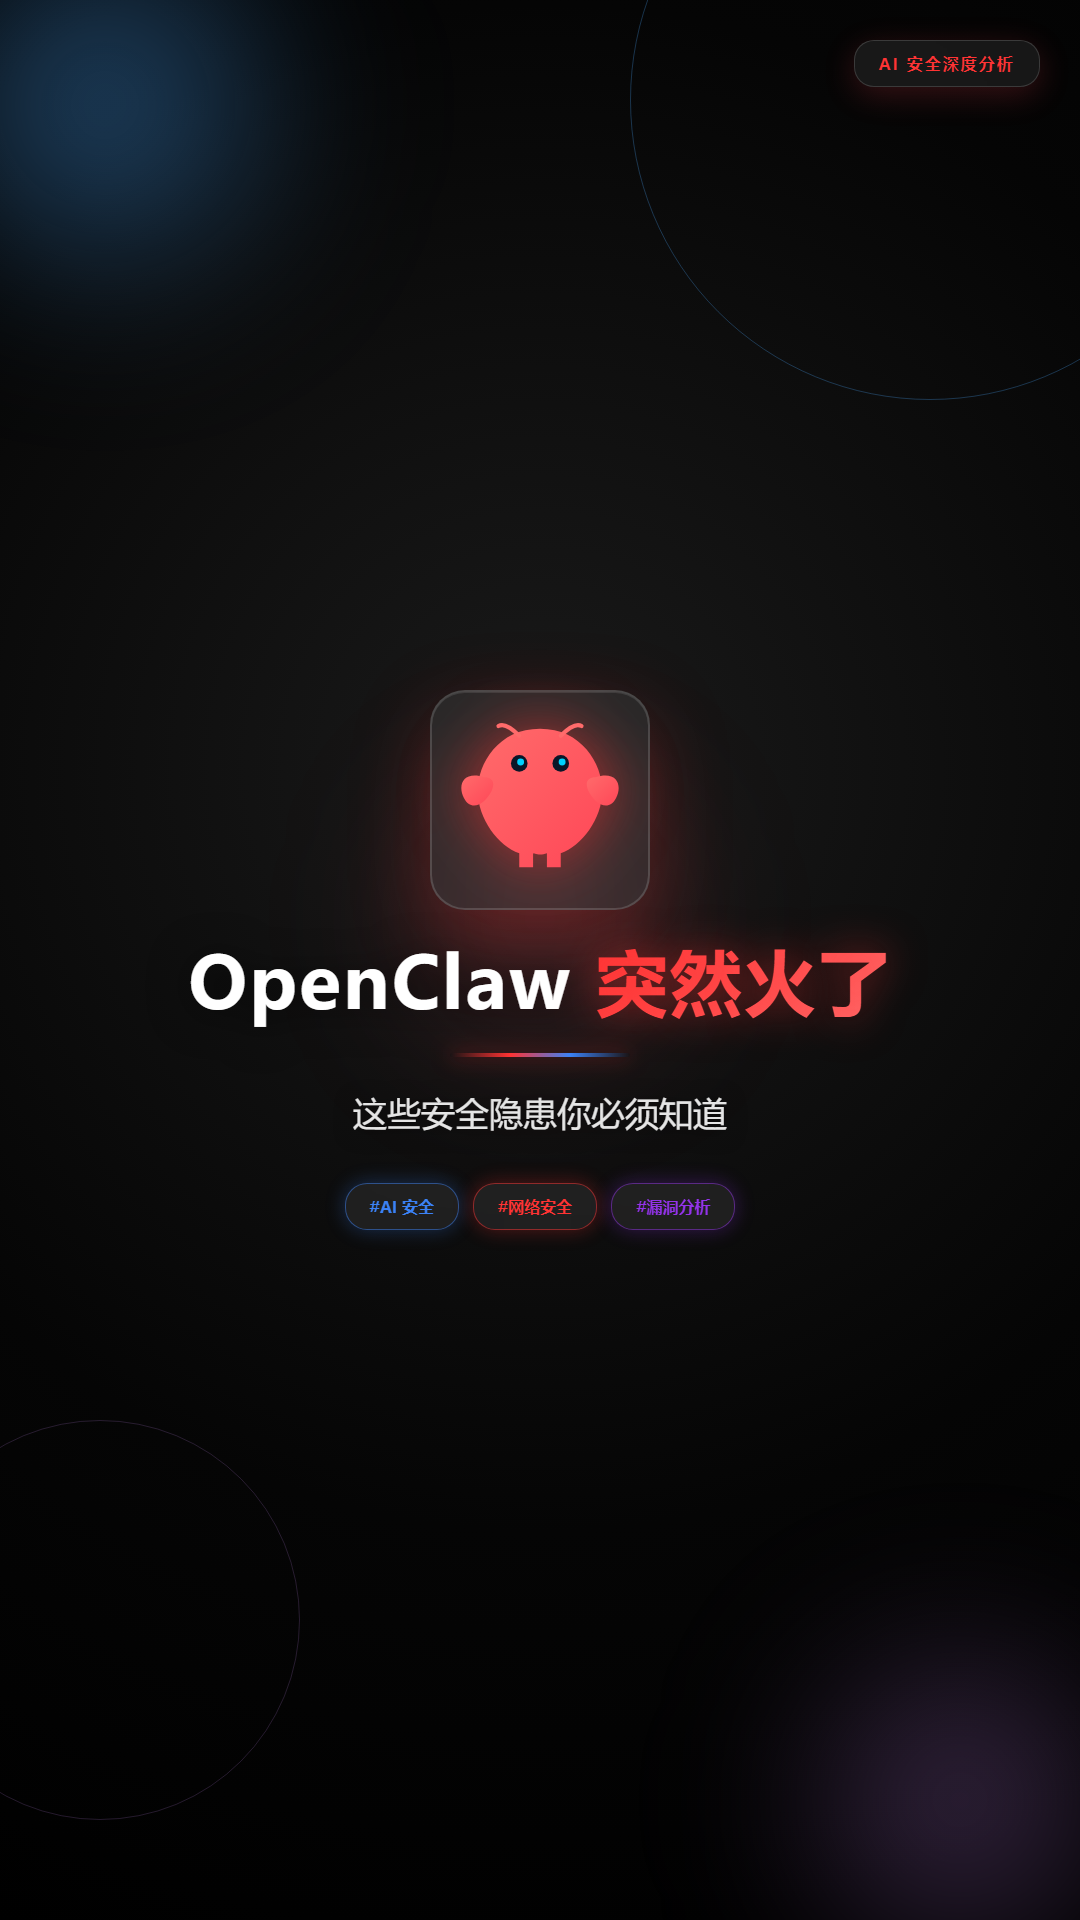
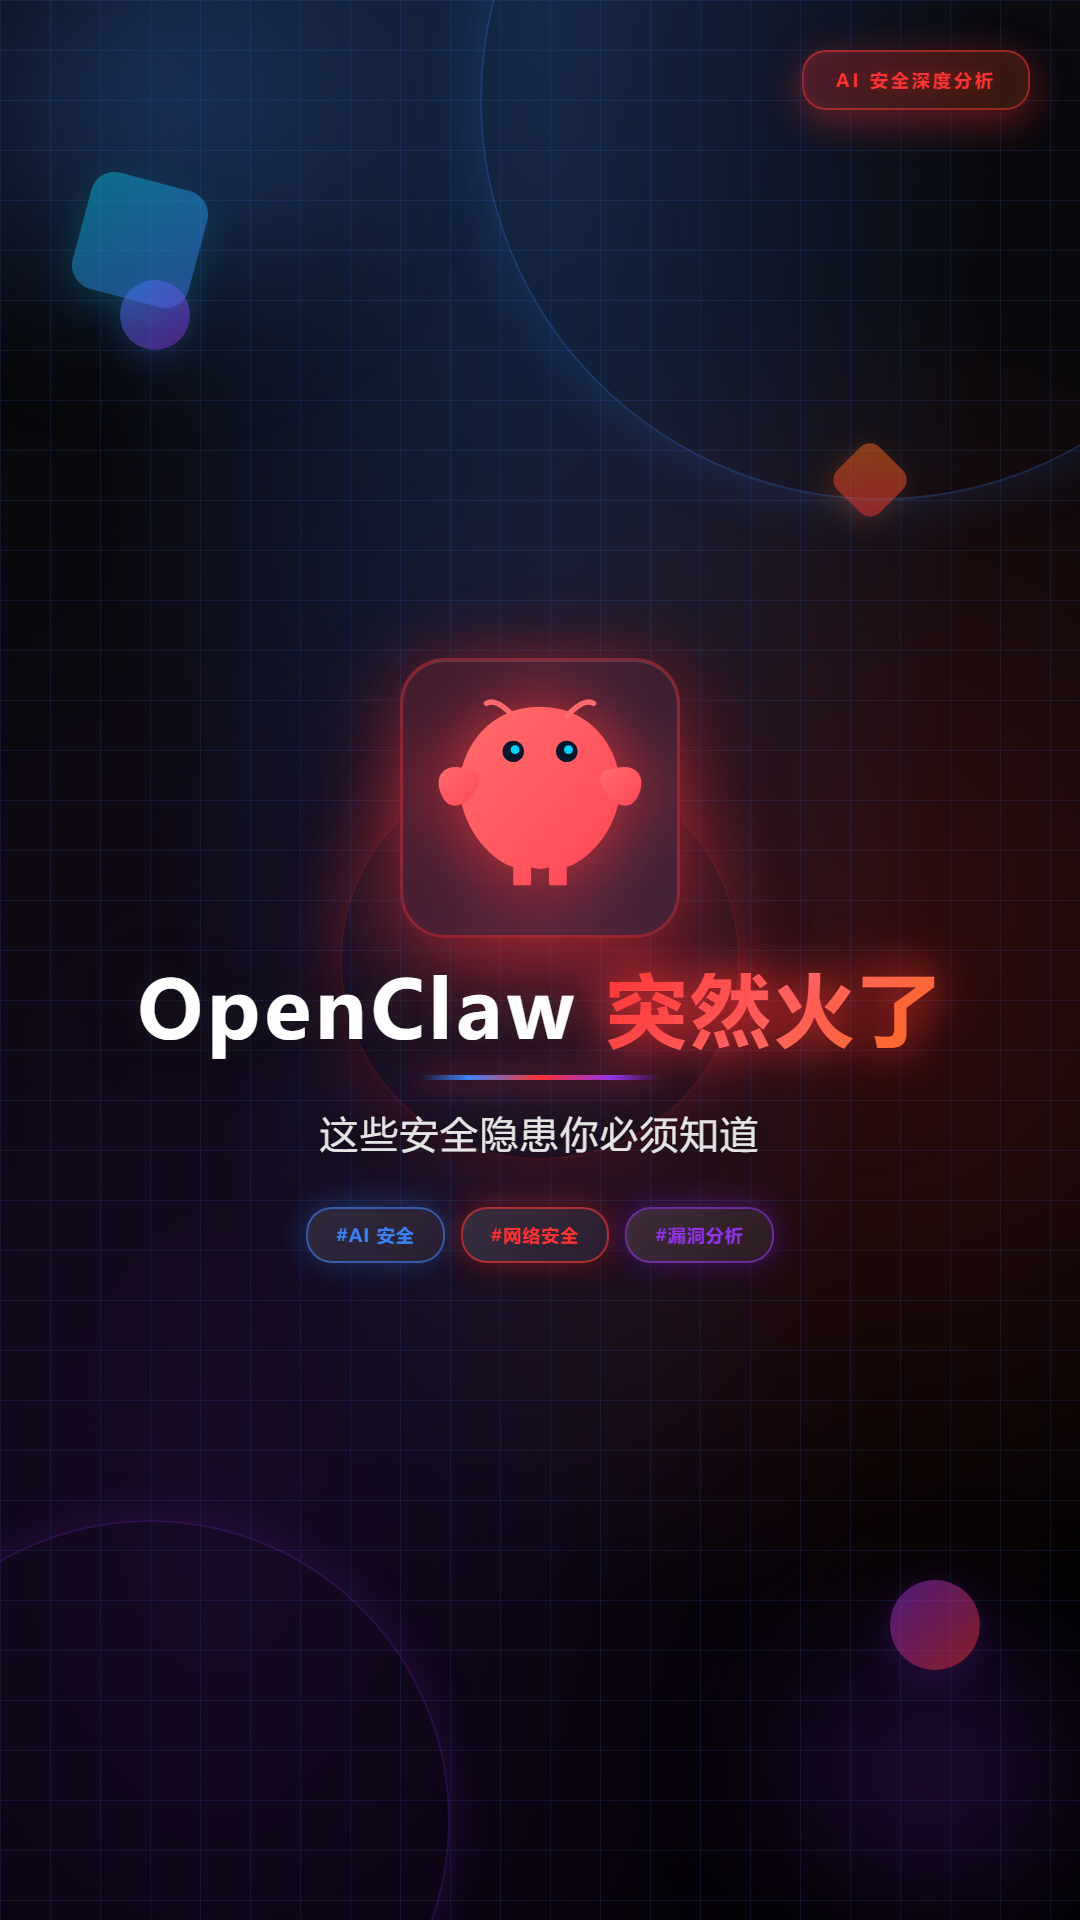
fix: 封面图优化 - 减少留白，增强背景视觉
- 增加多层渐变背景（蓝色/红色/紫色光晕）
- 添加网格背景纹理
- 增大装饰圆环和几何图形
- Logo 从 220px 增大到 280px
- 标题从 72px 增大到 80px
- 角标和标签更明显
- 整体视觉更饱满

diff --git a/generate_xhs_images.py b/generate_xhs_images.py
@@ -75,7 +75,7 @@ COLORS = {
 
 
 def generate_cover_html():
-    """封面图 HTML - 暗黑科技风格（视觉规划 v1.1 精修版）"""
+    """封面图 HTML - 饱满视觉风格（减少留白）"""
     return f"""
 <!DOCTYPE html>
 <html>
@@ -86,7 +86,11 @@ def generate_cover_html():
         body {{
             width: {IMAGE_CONFIG['width']}px;
             height: {IMAGE_CONFIG['height']}px;
-            background: radial-gradient(circle at 50% 40%, #1a1a1a 0%, {COLORS['bg']} 60%, #000000 100%);
+            background: 
+                radial-gradient(ellipse at 50% 0%, rgba(59, 130, 246, 0.25) 0%, transparent 60%),
+                radial-gradient(ellipse at 80% 50%, rgba(255, 51, 51, 0.18) 0%, transparent 50%),
+                radial-gradient(ellipse at 20% 80%, rgba(147, 51, 234, 0.15) 0%, transparent 55%),
+                linear-gradient(180deg, #0a0a0f 0%, #050505 50%, #000000 100%);
             font-family: 'Microsoft YaHei', 'PingFang SC', sans-serif;
             overflow: hidden;
             display: flex;
@@ -96,187 +100,246 @@ def generate_cover_html():
             padding: 0;
             position: relative;
         }}
-        /* 动态网格背景 */
+        /* 网格背景 - 更明显 */
         .grid-bg {{
             position: absolute;
             width: 100%;
             height: 100%;
             background-image:
-                linear-gradient(rgba(74, 168, 255, 0.15) 1px, transparent 1px),
-                linear-gradient(90deg, rgba(74, 168, 255, 0.15) 1px, transparent 1px);
-            background-size: 60px 60px;
+                linear-gradient(rgba(59, 130, 246, 0.12) 1px, transparent 1px),
+                linear-gradient(90deg, rgba(59, 130, 246, 0.12) 1px, transparent 1px);
+            background-size: 50px 50px;
             z-index: 0;
         }}
-        /* 装饰圆环 */
+        /* 装饰圆环 - 更大更明显 */
         .ring {{
             position: absolute;
             border-radius: 50%;
-            border: 1px solid rgba(74, 168, 255, 0.4);
+            border: 2px solid;
             z-index: 1;
         }}
-        .ring-1 {{ width: 600px; height: 600px; top: -200px; right: -150px; opacity: 0.7; }}
-        .ring-2 {{ width: 400px; height: 400px; bottom: 100px; left: -100px; opacity: 0.5; border-color: rgba(181, 126, 220, 0.4); }}
-        .ring-3 {{ width: 300px; height: 300px; top: 300px; right: 50px; opacity: 0.4; border-color: rgba(45, 232, 255, 0.4); }}
-        /* 渐变光斑 */
+        .ring-1 {{ 
+            width: 800px; height: 800px; 
+            top: -300px; right: -200px; 
+            border-color: rgba(59, 130, 246, 0.25);
+            box-shadow: 0 0 60px rgba(59, 130, 246, 0.2);
+        }}
+        .ring-2 {{ 
+            width: 600px; height: 600px; 
+            bottom: -200px; left: -150px; 
+            border-color: rgba(147, 51, 234, 0.2);
+            box-shadow: 0 0 50px rgba(147, 51, 234, 0.15);
+        }}
+        .ring-3 {{ 
+            width: 400px; height: 400px; 
+            top: 50%; left: 50%;
+            transform: translate(-50%, -50%);
+            border-color: rgba(255, 51, 51, 0.15);
+            box-shadow: 0 0 80px rgba(255, 51, 51, 0.2);
+        }}
+        /* 渐变光斑 - 更大更亮 */
         .glow {{
             position: absolute;
             border-radius: 50%;
-            filter: blur(80px);
+            filter: blur(60px);
             z-index: 0;
         }}
         .glow-1 {{
-            width: 450px; height: 450px;
-            top: -120px; left: -120px;
-            background: radial-gradient(circle, rgba(74, 168, 255, 0.5) 0%, transparent 70%);
+            width: 600px; height: 600px;
+            top: -200px; left: -150px;
+            background: radial-gradient(circle, rgba(59, 130, 246, 0.35) 0%, transparent 65%);
         }}
         .glow-2 {{
-            width: 400px; height: 400px;
-            bottom: -80px; right: -80px;
-            background: radial-gradient(circle, rgba(181, 126, 220, 0.4) 0%, transparent 70%);
+            width: 500px; height: 500px;
+            bottom: -100px; right: -100px;
+            background: radial-gradient(circle, rgba(147, 51, 234, 0.25) 0%, transparent 60%);
         }}
         .glow-3 {{
-            width: 300px; height: 300px;
-            top: 40%; left: 50%;
+            width: 450px; height: 450px;
+            top: 35%; left: 50%;
             transform: translateX(-50%);
-            background: radial-gradient(circle, rgba(255, 94, 110, 0.35) 0%, transparent 70%);
+            background: radial-gradient(circle, rgba(255, 51, 51, 0.28) 0%, transparent 60%);
         }}
-        /* 浮动几何图形 */
+        /* 浮动几何图形 - 更大更明显 */
         .geo {{
             position: absolute;
             z-index: 1;
-            opacity: 0.3;
+            opacity: 0.5;
         }}
         .geo-1 {{
-            width: 80px; height: 80px;
-            top: 150px; left: 60px;
+            width: 120px; height: 120px;
+            top: 180px; left: 80px;
             background: linear-gradient(135deg, {COLORS['accent_cyan']}, {COLORS['accent_blue']});
-            border-radius: 20px;
+            border-radius: 24px;
             transform: rotate(15deg);
+            box-shadow: 0 10px 40px rgba(6, 182, 212, 0.4);
         }}
         .geo-2 {{
-            width: 60px; height: 60px;
-            bottom: 200px; right: 80px;
+            width: 90px; height: 90px;
+            bottom: 250px; right: 100px;
             background: linear-gradient(135deg, {COLORS['accent_purple']}, {COLORS['accent_red']});
             border-radius: 50%;
+            box-shadow: 0 10px 40px rgba(147, 51, 234, 0.4);
         }}
         .geo-3 {{
-            width: 40px; height: 40px;
-            top: 400px; right: 150px;
+            width: 60px; height: 60px;
+            top: 450px; right: 180px;
             background: linear-gradient(135deg, {COLORS['accent_orange']}, {COLORS['accent_red']});
-            border-radius: 10px;
+            border-radius: 14px;
             transform: rotate(45deg);
+            box-shadow: 0 8px 30px rgba(249, 115, 22, 0.4);
         }}
-        /* 角标 - 玻璃态风格 */
+        .geo-4 {{
+            width: 70px; height: 70px;
+            top: 280px; left: 120px;
+            background: linear-gradient(135deg, {COLORS['accent_blue']}, {COLORS['accent_purple']});
+            border-radius: 50%;
+            box-shadow: 0 8px 30px rgba(59, 130, 246, 0.4);
+        }}
+        /* 角标 - 更大更明显 */
         .corner-badge {{
             position: absolute;
-            top: 40px;
-            right: 40px;
-            background: {COLORS['glass_bg']};
-            backdrop-filter: blur(10px);
-            border: 1px solid {COLORS['glass_border']};
+            top: 50px;
+            right: 50px;
+            background: linear-gradient(135deg, rgba(255, 51, 51, 0.25), rgba(249, 115, 22, 0.15));
+            backdrop-filter: blur(15px);
+            border: 2px solid rgba(255, 51, 51, 0.5);
             color: {COLORS['accent_red']};
-            padding: 12px 24px;
-            border-radius: 20px;
-            font-size: 16px;
-            font-weight: 600;
-            letter-spacing: 2px;
+            padding: 16px 32px;
+            border-radius: 24px;
+            font-size: 18px;
+            font-weight: 700;
+            letter-spacing: 3px;
             z-index: 10;
-            box-shadow: 0 8px 32px rgba(255, 71, 87, 0.2);
+            box-shadow: 
+                0 10px 40px rgba(255, 51, 51, 0.4),
+                inset 0 0 30px rgba(255, 51, 51, 0.1);
+            text-shadow: 0 0 20px rgba(255, 51, 51, 0.5);
         }}
-        /* Logo 容器 - 玻璃态 */
+        /* Logo 容器 - 更大更有视觉冲击力 */
         .logo-container {{
-            width: 220px;
-            height: 220px;
-            margin: 0 0 30px;
+            width: 280px;
+            height: 280px;
+            margin: 0 0 25px;
             display: flex;
             align-items: center;
             justify-content: center;
-            background: {COLORS['glass_bg']};
-            backdrop-filter: blur(20px);
-            border: 2px solid {COLORS['glass_border']};
-            border-radius: 35px;
+            background: linear-gradient(135deg, rgba(255, 51, 51, 0.15), rgba(59, 130, 246, 0.1));
+            backdrop-filter: blur(25px);
+            border: 3px solid rgba(255, 51, 51, 0.4);
+            border-radius: 45px;
             z-index: 10;
-            padding: 25px;
+            padding: 30px;
             box-shadow:
-                0 25px 80px rgba(255, 51, 51, 0.25),
-                inset 0 1px 0 rgba(255,255,255,0.1);
+                0 30px 100px rgba(255, 51, 51, 0.35),
+                0 0 80px rgba(255, 51, 51, 0.2),
+                inset 0 0 60px rgba(255, 51, 51, 0.1),
+                inset 0 1px 0 rgba(255,255,255,0.15);
         }}
         .logo-svg svg {{
             width: 100%;
             height: 100%;
-            filter: drop-shadow(0 0 30px {COLORS['accent_red']}99);
+            filter: drop-shadow(0 0 40px rgba(255, 51, 51, 0.8));
         }}
         .main-title {{
-            font-size: 72px;
+            font-size: 80px;
             font-weight: 800;
             color: {COLORS['text_primary']};
             text-align: center;
-            margin-bottom: 15px;
+            margin-bottom: 12px;
             z-index: 10;
-            line-height: 1.15;
-            text-shadow: 0 4px 40px rgba(0,0,0,0.6);
-            letter-spacing: 2px;
+            line-height: 1.1;
+            text-shadow: 0 6px 50px rgba(0,0,0,0.7), 0 0 30px rgba(255,255,255,0.1);
+            letter-spacing: 4px;
         }}
         .main-title .highlight {{
             color: {COLORS['accent_red']};
-            background: linear-gradient(135deg, {COLORS['accent_red']}, #ff6b6b);
+            background: linear-gradient(135deg, {COLORS['accent_red']}, #ff6b6b, {COLORS['accent_orange']});
             -webkit-background-clip: text;
             -webkit-text-fill-color: transparent;
             background-clip: text;
-            text-shadow: 0 0 40px rgba(255, 51, 51, 0.5);
+            text-shadow: 0 0 50px rgba(255, 51, 51, 0.6);
+            filter: drop-shadow(0 0 20px rgba(255, 51, 51, 0.5));
         }}
         .sub-title {{
-            font-size: 34px;
+            font-size: 38px;
             color: {COLORS['text_secondary']};
             text-align: center;
-            margin-bottom: 35px;
+            margin-bottom: 30px;
             line-height: 1.5;
             z-index: 10;
-            text-shadow: 0 2px 20px rgba(0,0,0,0.5);
+            text-shadow: 0 3px 25px rgba(0,0,0,0.6);
+            letter-spacing: 2px;
         }}
         .divider {{
-            width: 180px;
-            height: 4px;
-            background: linear-gradient(90deg, transparent, {COLORS['accent_red']}, {COLORS['accent_blue']}, transparent);
-            margin: 15px 0 30px;
+            width: 240px;
+            height: 5px;
+            background: linear-gradient(90deg, 
+                transparent 0%, 
+                {COLORS['accent_blue']} 20%, 
+                {COLORS['accent_red']} 50%, 
+                {COLORS['accent_purple']} 80%, 
+                transparent 100%);
+            margin: 12px 0 25px;
             z-index: 10;
-            border-radius: 2px;
-            box-shadow: 0 0 20px rgba(255, 51, 51, 0.5);
+            border-radius: 3px;
+            box-shadow: 0 0 30px rgba(255, 51, 51, 0.6), 0 0 60px rgba(59, 130, 246, 0.3);
         }}
-        /* 标签 - 玻璃态 */
+        /* 标签 - 更大更明显 */
         .tags {{
             display: flex;
-            gap: 14px;
+            gap: 16px;
             z-index: 10;
             flex-wrap: wrap;
             justify-content: center;
-            max-width: 85%;
-            margin-top: 10px;
+            max-width: 90%;
+            margin-top: 15px;
         }}
         .tag {{
-            background: {COLORS['glass_bg']};
-            backdrop-filter: blur(10px);
-            border: 1px solid {COLORS['glass_border']};
+            background: linear-gradient(135deg, rgba(255,255,255,0.12), rgba(255,255,255,0.06));
+            backdrop-filter: blur(15px);
+            border: 2px solid;
             color: {COLORS['text_primary']};
-            padding: 12px 24px;
-            border-radius: 22px;
-            font-size: 16px;
-            font-weight: 600;
-            box-shadow: 0 4px 20px rgba(0,0,0,0.3);
+            padding: 14px 28px;
+            border-radius: 26px;
+            font-size: 18px;
+            font-weight: 700;
+            box-shadow: 0 6px 25px rgba(0,0,0,0.4);
+            letter-spacing: 1px;
         }}
-        .tag:nth-child(1) {{ border-color: rgba(59, 130, 246, 0.5); color: {COLORS['accent_blue']}; box-shadow: 0 0 20px rgba(59, 130, 246, 0.3); }}
-        .tag:nth-child(2) {{ border-color: rgba(255, 51, 51, 0.5); color: {COLORS['accent_red']}; box-shadow: 0 0 20px rgba(255, 51, 51, 0.3); }}
-        .tag:nth-child(3) {{ border-color: rgba(147, 51, 234, 0.5); color: {COLORS['accent_purple']}; box-shadow: 0 0 20px rgba(147, 51, 234, 0.3); }}
+        .tag:nth-child(1) {{ 
+            border-color: rgba(59, 130, 246, 0.6); 
+            color: {COLORS['accent_blue']}; 
+            box-shadow: 0 0 30px rgba(59, 130, 246, 0.4), 0 6px 25px rgba(0,0,0,0.4);
+        }}
+        .tag:nth-child(2) {{ 
+            border-color: rgba(255, 51, 51, 0.6); 
+            color: {COLORS['accent_red']}; 
+            box-shadow: 0 0 30px rgba(255, 51, 51, 0.4), 0 6px 25px rgba(0,0,0,0.4);
+        }}
+        .tag:nth-child(3) {{ 
+            border-color: rgba(147, 51, 234, 0.6); 
+            color: {COLORS['accent_purple']}; 
+            box-shadow: 0 0 30px rgba(147, 51, 234, 0.4), 0 6px 25px rgba(0,0,0,0.4);
+        }}
     </style>
 </head>
 <body>
-    <!-- 背景光效 -->
+    <!-- 背景网格 -->
+    <div class="grid-bg"></div>
+    <!-- 背景光效 - 更大更明显 -->
     <div class="glow glow-1"></div>
     <div class="glow glow-2"></div>
     <div class="glow glow-3"></div>
-    <!-- 装饰圆环 -->
+    <!-- 装饰圆环 - 更明显 -->
     <div class="ring ring-1"></div>
     <div class="ring ring-2"></div>
+    <div class="ring ring-3"></div>
+    <!-- 浮动几何图形 -->
+    <div class="geo geo-1"></div>
+    <div class="geo geo-2"></div>
+    <div class="geo geo-3"></div>
+    <div class="geo geo-4"></div>
 
     <div class="corner-badge">AI 安全深度分析</div>
 
